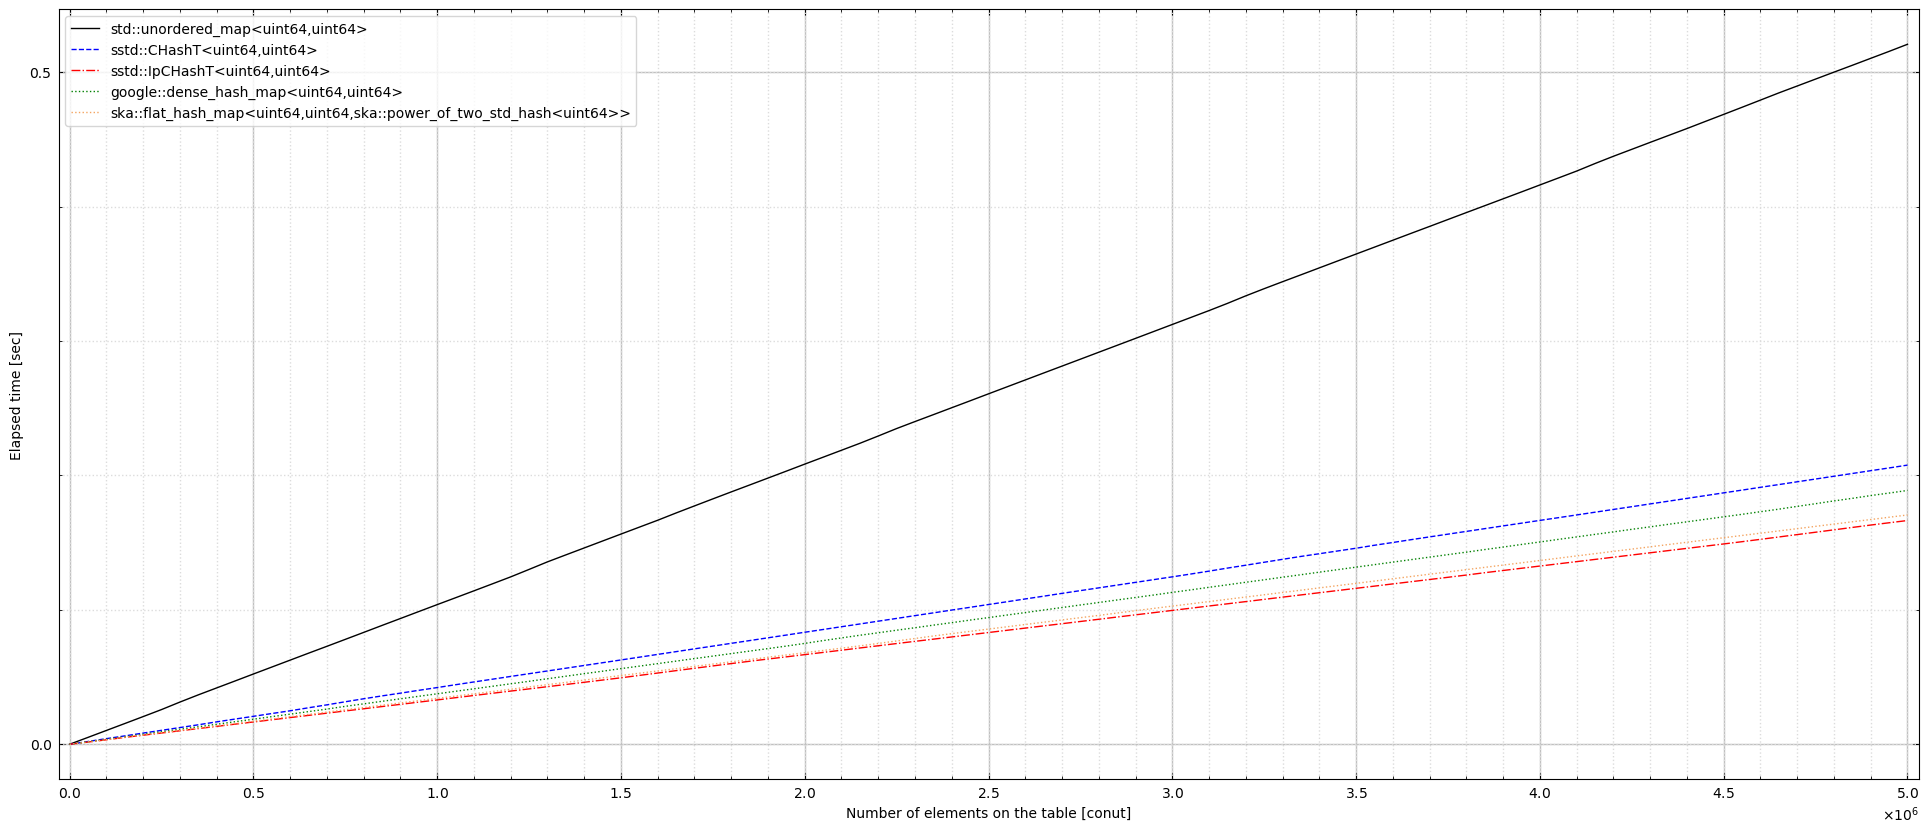
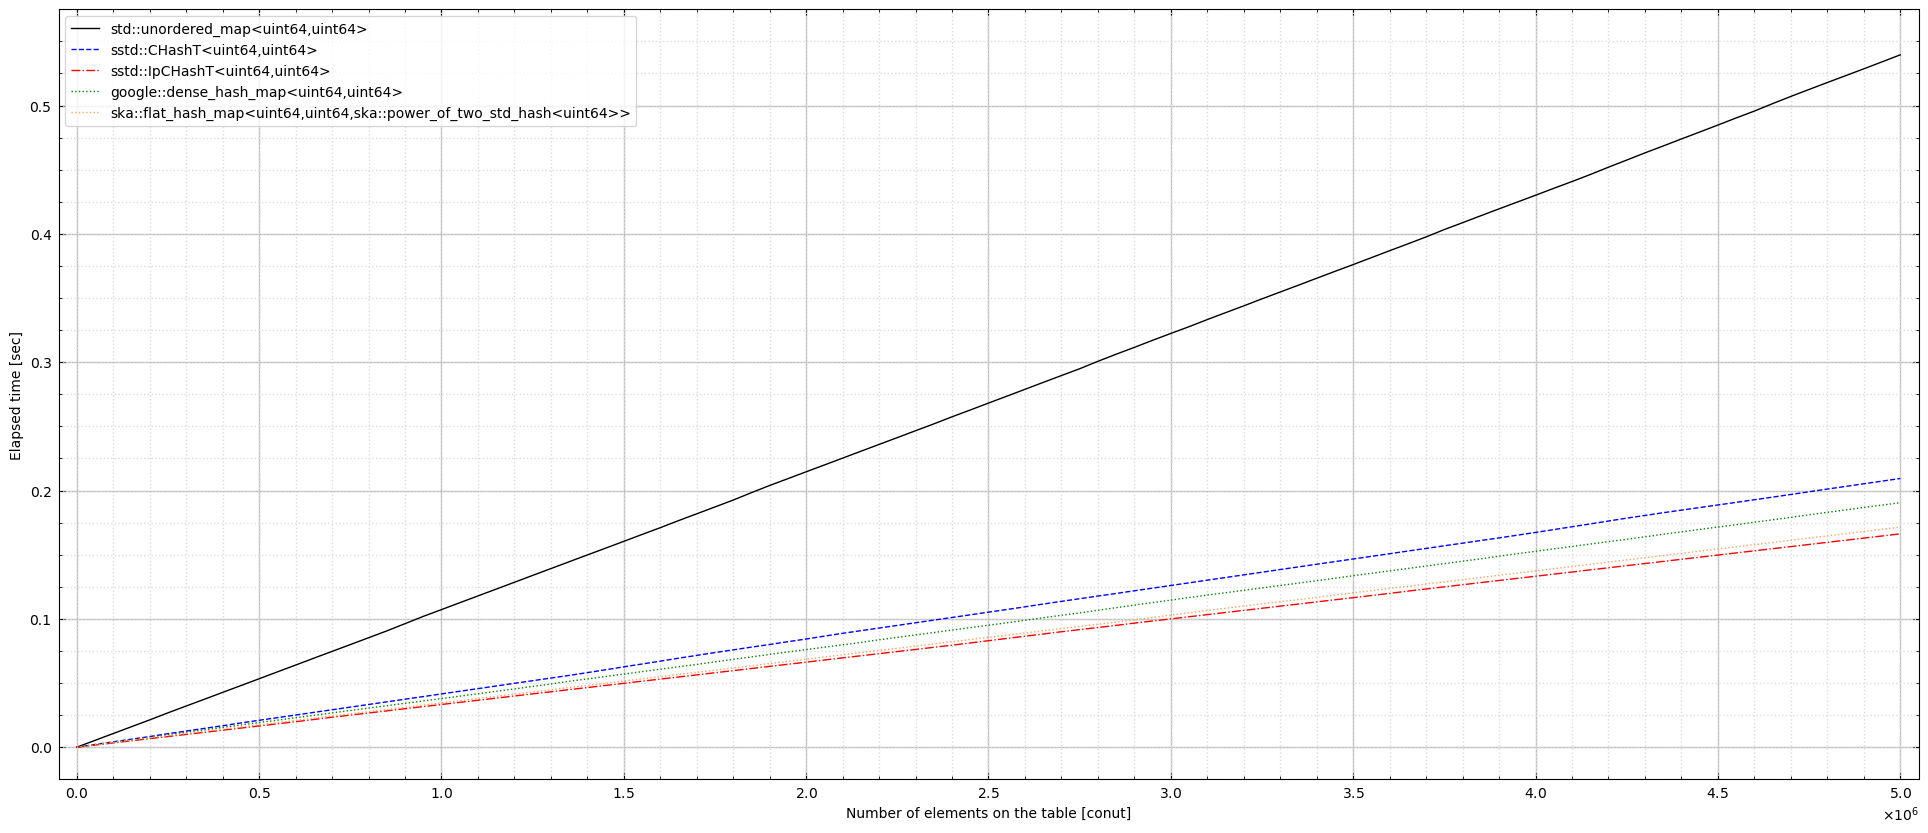
add bench_erase, modify bench_erase_ert

diff --git a/bench.hpp b/bench.hpp
@@ -290,7 +290,7 @@ void bench_find(T_hashTable& hashT, const uint64 limitSize, std::vector<double>&
 	uint64 interval = 1;
 	std::vector<uint64> vecKeyVal(limitSize); vecKeyVal.clear();
 	
-	std::mt19937 engine(seed_gen()); // for std::shuffle()
+	std::mt19937_64 engine(seed_gen()); // for std::shuffle()
 	
 	for(;;){
 		// add
@@ -353,7 +353,7 @@ void bench_find_failedAll(T_hashTable& hashT, const uint64 limitSize, std::vecto
 	uint64 interval = 1;
 	std::vector<uint64> vecKeyVal(limitSize); vecKeyVal.clear();
 	
-	std::mt19937 engine(seed_gen()); // for std::shuffle()
+	std::mt19937_64 engine(seed_gen()); // for std::shuffle()
 	
 	uint64 numFound=0ull, numNotFound=0ull;
 	for(;;){
@@ -466,7 +466,7 @@ void bench_plot_find_et(const char* savePath, const uint64 initSize, const uint6
 	
 	// plot2fig
 	const char* tmpDir   = "./tmpDir";
-	const char* fileName = "plot_et";
+	const char* fileName = "plot_et_find";
 	const char* funcName = "vvec2graph";
 	
 	const char* xlabel   = "Number of elements on the table [conut]";
@@ -529,7 +529,7 @@ void bench_plot_find_failedAll_et(const char* savePath, const uint64 initSize, c
 	
 	// plot2fig
 	const char* tmpDir   = "./tmpDir";
-	const char* fileName = "plot_et";
+	const char* fileName = "plot_et_find";
 	const char* funcName = "vvec2graph";
 	
 	const char* xlabel   = "Number of elements on the table [conut]";
@@ -561,7 +561,7 @@ void bench_find_erase_add(T_hashTable& hashT, const uint64 initSize, std::vector
 	}
 	
 	// shuffle "vecKeyVal"
-	std::mt19937 engine(seed_gen()); // for std::shuffle()
+	std::mt19937_64 engine(seed_gen()); // for std::shuffle()
 	std::shuffle(vecKeyVal.begin(), vecKeyVal.end(), engine);
 	
 	uint8 order = (uint8)std::log10((double)hashT.size());
@@ -645,7 +645,7 @@ void bench_find_findFailedAll_erase_add(T_hashTable& hashT, const uint64 initSiz
 	}
 	
 	// shuffle "vecKeyVal"
-	std::mt19937 engine(seed_gen()); // for std::shuffle()
+	std::mt19937_64 engine(seed_gen()); // for std::shuffle()
 	std::shuffle(vecKeyVal.begin(), vecKeyVal.end(), engine);
 	
 	uint8 order = (uint8)std::log10((double)hashT.size());
@@ -723,7 +723,80 @@ void bench_plot_find_findFailedAll_erase_add(const char* savePath, const uint64 
 // erase
 
 template<typename T_hashTable>
-void bench_erase(T_hashTable& hashT, const uint64 limitSize, std::vector<double>& vecX_num, std::vector<double>& vecY_s){
+void bench_erase(T_hashTable& hashT, const uint64 limitSize, std::vector<double>& vecX_num, std::vector<double>& vecY_quely_per_ms){
+	
+	std::vector<uint64> vecKeyVal(limitSize); vecKeyVal.clear();
+	
+	std::random_device seed_gen;
+	std::mt19937_64 rand(seed_gen()); // pseudo random number generator
+	std::mt19937_64 engine(seed_gen()); // for std::shuffle()
+	
+	// add elements to the num of limitSize
+	while(hashT.size()<limitSize){
+		uint64 r = rand();
+		hashT[r] = r;
+		vecKeyVal <<= r;
+	}
+	
+	uint64 interval = 1;
+	for(;;){
+//		uint8 order = (uint8)std::log10((double)hashT.size());
+		uint8 order = (uint8)std::log10((double)vecKeyVal.size());
+		interval = (uint64)std::pow(10, order);
+		if(interval!=1){interval/=10;}
+//		sstd::printn(interval);
+//		sstd::printn(vecKeyVal.size());
+//		sstd::printn(hashT.size());
+		
+		double numBuf = vecKeyVal.size();
+		// hash.size() はテーブルサイズとして振る舞っており，テーブル上の要素数は bucket_count か何かだと思う．たぶん．
+		
+		// erase
+		time_m timem; sstd::measureTime_start(timem);
+		for(uint i=0; i<interval && vecKeyVal.size()!=0; i++){
+			uint64 r = vecKeyVal[vecKeyVal.size()-1];
+			vecKeyVal.pop_back();
+			hashT[r] = r;
+		}
+		double nsec = sstd::measureTime_stop_ns(timem);
+		vecY_quely_per_ms <<= ((double)interval * 1000.0) / (nsec);
+		vecX_num          <<= numBuf;
+		if(vecKeyVal.size()==0ull){ break; }
+		
+		std::shuffle(vecKeyVal.begin(), vecKeyVal.end(), engine);
+	}
+}
+void bench_plot_erase(const char* savePath, const uint64 initSize, const uint64 limitSize){
+	std::vector<double> vecX_u, vecX_c, vecX_i, vecX_d, vecX_f; // num of elements
+	std::vector<double> vecY_u, vecY_c, vecY_i, vecY_d, vecY_f; // quely_per_ms
+	{     std::unordered_map<uint64,uint64> hashT(initSize); bench_erase(hashT, limitSize, vecX_u, vecY_u); }
+	{           sstd::CHashT<uint64,uint64> hashT(initSize); bench_erase(hashT, limitSize, vecX_c, vecY_c); }
+	{         sstd::IpCHashT<uint64,uint64> hashT(initSize); bench_erase(hashT, limitSize, vecX_i, vecY_i); }
+	{ google::dense_hash_map<uint64,uint64> hashT(initSize); hashT.set_empty_key(0ull); hashT.set_deleted_key(1ull); // this meen that 'NULL' and '1' will not be able to insert as a key-value.
+		                                                     bench_erase(hashT, limitSize, vecX_d, vecY_d); }
+	{ ska::flat_hash_map<uint64,uint64,ska::power_of_two_std_hash<uint64>> hashT(initSize);
+		                                                     bench_erase(hashT, limitSize, vecX_f, vecY_f); } // this meen that 'NULL' will not be able to insert as a key-value.
+	
+	// plot2fig
+	const char* tmpDir   = "./tmpDir";
+	const char* fileName = "plot";
+	const char* funcName = "vvec2graph";
+	
+	const char* xlabel   = "Number of elements on the table [conut]\n(This axis is inverted.)";
+	const char* ylabel   = "Erasion speed [query/ms]";
+	std::vector<std::string> vecLabel={"std::unordered_map<uint64,uint64>", "sstd::CHashT<uint64,uint64>", "sstd::IpCHashT<uint64,uint64>", "google::dense_hash_map<uint64,uint64>", "ska::flat_hash_map<uint64,uint64,ska::power_of_two_std_hash<uint64>>"};
+	std::vector<std::vector<double>> vvecX={vecX_u, vecX_c, vecX_i, vecX_d, vecX_f}; // num of elements
+	std::vector<std::vector<double>> vvecY={vecY_u, vecY_c, vecY_i, vecY_d, vecY_f}; // quely_per_ms
+	
+	sstd::c2py<void> vvec2graph(tmpDir, fileName, funcName, "void, const char*, const char*, const char*, const vec<str>*, const vvec<double>*, const vvec<double>*");
+	vvec2graph(savePath, xlabel, ylabel, &vecLabel, &vvecX, &vvecY);
+}
+
+//-----------------------------------------------------------------------------------------------------------------------------------------------
+// erase_et
+
+template<typename T_hashTable>
+void bench_erase_et(T_hashTable& hashT, const uint64 limitSize, std::vector<double>& vecX_num, std::vector<double>& vecY_s){
 	
 	std::vector<uint64> vecKeyVal(limitSize); vecKeyVal.clear();
 	
@@ -737,7 +810,7 @@ void bench_erase(T_hashTable& hashT, const uint64 limitSize, std::vector<double>
 	}
 	
 	// shuffle "vecKeyVal"
-	std::mt19937 engine(seed_gen()); // for std::shuffle()
+	std::mt19937_64 engine(seed_gen()); // for std::shuffle()
 	std::shuffle(vecKeyVal.begin(), vecKeyVal.end(), engine);
 	
 	uint64 splitNum  = 100;
@@ -760,16 +833,16 @@ void bench_erase(T_hashTable& hashT, const uint64 limitSize, std::vector<double>
 		vecY_s <<= sec;
 	}
 }
-void bench_plot_erase(const char* savePath, const uint64 initSize, const uint64 limitSize){
+void bench_plot_erase_et(const char* savePath, const uint64 initSize, const uint64 limitSize){
 	std::vector<double> vecX_u, vecX_c, vecX_i, vecX_d, vecX_f; // num of elements
 	std::vector<double> vecY_u, vecY_c, vecY_i, vecY_d, vecY_f; // quely_per_ms
-	{     std::unordered_map<uint64,uint64> hashT(initSize); bench_erase(hashT, limitSize, vecX_u, vecY_u); }
-	{           sstd::CHashT<uint64,uint64> hashT(initSize); bench_erase(hashT, limitSize, vecX_c, vecY_c); }
-	{         sstd::IpCHashT<uint64,uint64> hashT(initSize); bench_erase(hashT, limitSize, vecX_i, vecY_i); }
+	{     std::unordered_map<uint64,uint64> hashT(initSize); bench_erase_et(hashT, limitSize, vecX_u, vecY_u); }
+	{           sstd::CHashT<uint64,uint64> hashT(initSize); bench_erase_et(hashT, limitSize, vecX_c, vecY_c); }
+	{         sstd::IpCHashT<uint64,uint64> hashT(initSize); bench_erase_et(hashT, limitSize, vecX_i, vecY_i); }
 	{ google::dense_hash_map<uint64,uint64> hashT(initSize); hashT.set_empty_key(0ull); hashT.set_deleted_key(1ull); // this meen that 'NULL' and '1' will not be able to insert as a key-value.
-		                                                     bench_erase(hashT, limitSize, vecX_d, vecY_d); }
+		                                                     bench_erase_et(hashT, limitSize, vecX_d, vecY_d); }
 	{ ska::flat_hash_map<uint64,uint64,ska::power_of_two_std_hash<uint64>> hashT(initSize);
-		                                                     bench_erase(hashT, limitSize, vecX_f, vecY_f); } // this meen that 'NULL' will not be able to insert as a key-value.
+		                                                     bench_erase_et(hashT, limitSize, vecX_f, vecY_f); } // this meen that 'NULL' will not be able to insert as a key-value.
 	
 	// plot2fig
 	const char* tmpDir   = "./tmpDir";
@@ -867,10 +940,13 @@ void RUN_ALL_BENCHS(){
 	// find: all lookup is failed
 	bench_plot_find_failedAll("./bench_find_wRehash_failedAll.png",  initSize_wRehash,  limitSize);
 	bench_plot_find_failedAll("./bench_find_preAlloc_failedAll.png", initSize_preAlloc, limitSize);
-	
+	//*/
 	// erase
 	bench_plot_erase("./bench_erase_preAlloc.png", initSize_preAlloc, limitSize); // pre-allocate
 	
+	bench_plot_erase_et("./bench_erase_et.png",    initSize_preAlloc, limitSize*1); // pre-allocate
+	bench_plot_erase_et("./bench_erase_et_x2.png", initSize_preAlloc, limitSize*2); // pre-allocate
+	/*
 	// find -> erase -> add (reHash occurd)
 	bench_plot_find_erase_add("./bench_find_erase_add_pow10_4.png", 10000  ); // find with erasion
 	bench_plot_find_erase_add("./bench_find_erase_add_pow10_5.png", 100000 ); // find with erasion
@@ -882,13 +958,14 @@ void RUN_ALL_BENCHS(){
 //	bench_plot_maxLoadFactor("./bench_maxLoadFactor_pow10_8.png", 100000000);
 	
 	bench_plot_find_findFailedAll_erase_add("./bench_find_fainFailedAll_erase_add_pow10_6.png", 1000000); // find with erasion
-//*/
+	//*/
 //	sstd::rm(pWarmRun);
-	
+	/*
 	bench_plot_find_et("./bench_find_et.png", initSize_preAlloc, limitSize);
 //	bench_plot_find_et("./bench_find_et.png", initSize_preAlloc, 200000000);
 	
 	bench_plot_find_failedAll_et("./bench_find_failedAll_et.png", initSize_preAlloc, limitSize);
+	//*/
 }
 
 //-----------------------------------------------------------------------------------------------------------------------------------------------

diff --git a/plot_et_find.py b/plot_et_find.py
@@ -27,7 +27,7 @@ def vvec2graph(savePath, xlabel, ylabel, vecLabel, vvecX, vvecY):
     
     # x: lim
     num_of_minorLoc = int((maxVal+minorLoc*0.5)//minorLoc)
-    margen = 0.3
+    margen = 0.5
     xlim_min = -margen*minorLoc
     xlim_max = num_of_minorLoc * minorLoc + margen*minorLoc
     ax1.set_xlim(xlim_min, xlim_max)
@@ -35,16 +35,14 @@ def vvec2graph(savePath, xlabel, ylabel, vecLabel, vvecX, vvecY):
     # x: x10^X
     ax1.xaxis.set_major_formatter(tick.ScalarFormatter(useMathText=True))
     ax1.ticklabel_format(style='sci', axis='x', scilimits=(0,0))
-
-    # x: invAxisX
-    ax1.invert_xaxis()
     
     # y: locator
     ax1.set_ylabel(ylabel)
-    ax1.yaxis.set_major_locator(tick.MultipleLocator(0.5))
-    ax1.yaxis.set_minor_locator(tick.MultipleLocator(0.1))
+    ax1.yaxis.set_major_locator(tick.MultipleLocator(0.1 ))
+    ax1.yaxis.set_minor_locator(tick.MultipleLocator(0.025))
     #ax1.set_yscale('log')
-    #ax1.set_ylim(0.05, 1000)
+    #ax1.set_ylim(0-0.025, 1.25+0.025)
+    ax1.set_ylim(0-0.025, 0.55+0.025)
     
     # x-y: tick
     ax1.tick_params(pad=5, which='major', direction='in', bottom=True, top=True, left=True, right=True, length=4) # 軸の余白 # which: major tick と minor tick に対して変更を適用 # tick を内側方向に # tick を bottom, top, left, right に付加 # tick width # tick length
@@ -54,8 +52,8 @@ def vvec2graph(savePath, xlabel, ylabel, vecLabel, vvecX, vvecY):
     vColor=['black', 'blue', 'red', 'green', 'sandybrown']
     vLineStyle = ['solid', 'dashed', 'dashdot', 'dotted', 'dotted'] # solid, dashed, dashdot, dotted
     for i in range(len(vecLabel)):
-        #ax1.plot(vvecX[i], vvecY[i], linewidth=1, color=cmap(i), label=vecLabel[i])
         ax1.plot(vvecX[i], vvecY[i], linewidth=1, color=vColor[i], linestyle=vLineStyle[i], label=vecLabel[i])
+        #ax1.plot(vvecX[i], vvecY[i], linewidth=1, color=cmap(i), label=vecLabel[i])
     ax1.legend(loc='upper left')
     plt.savefig(savePath, bbox_inches='tight')
 
